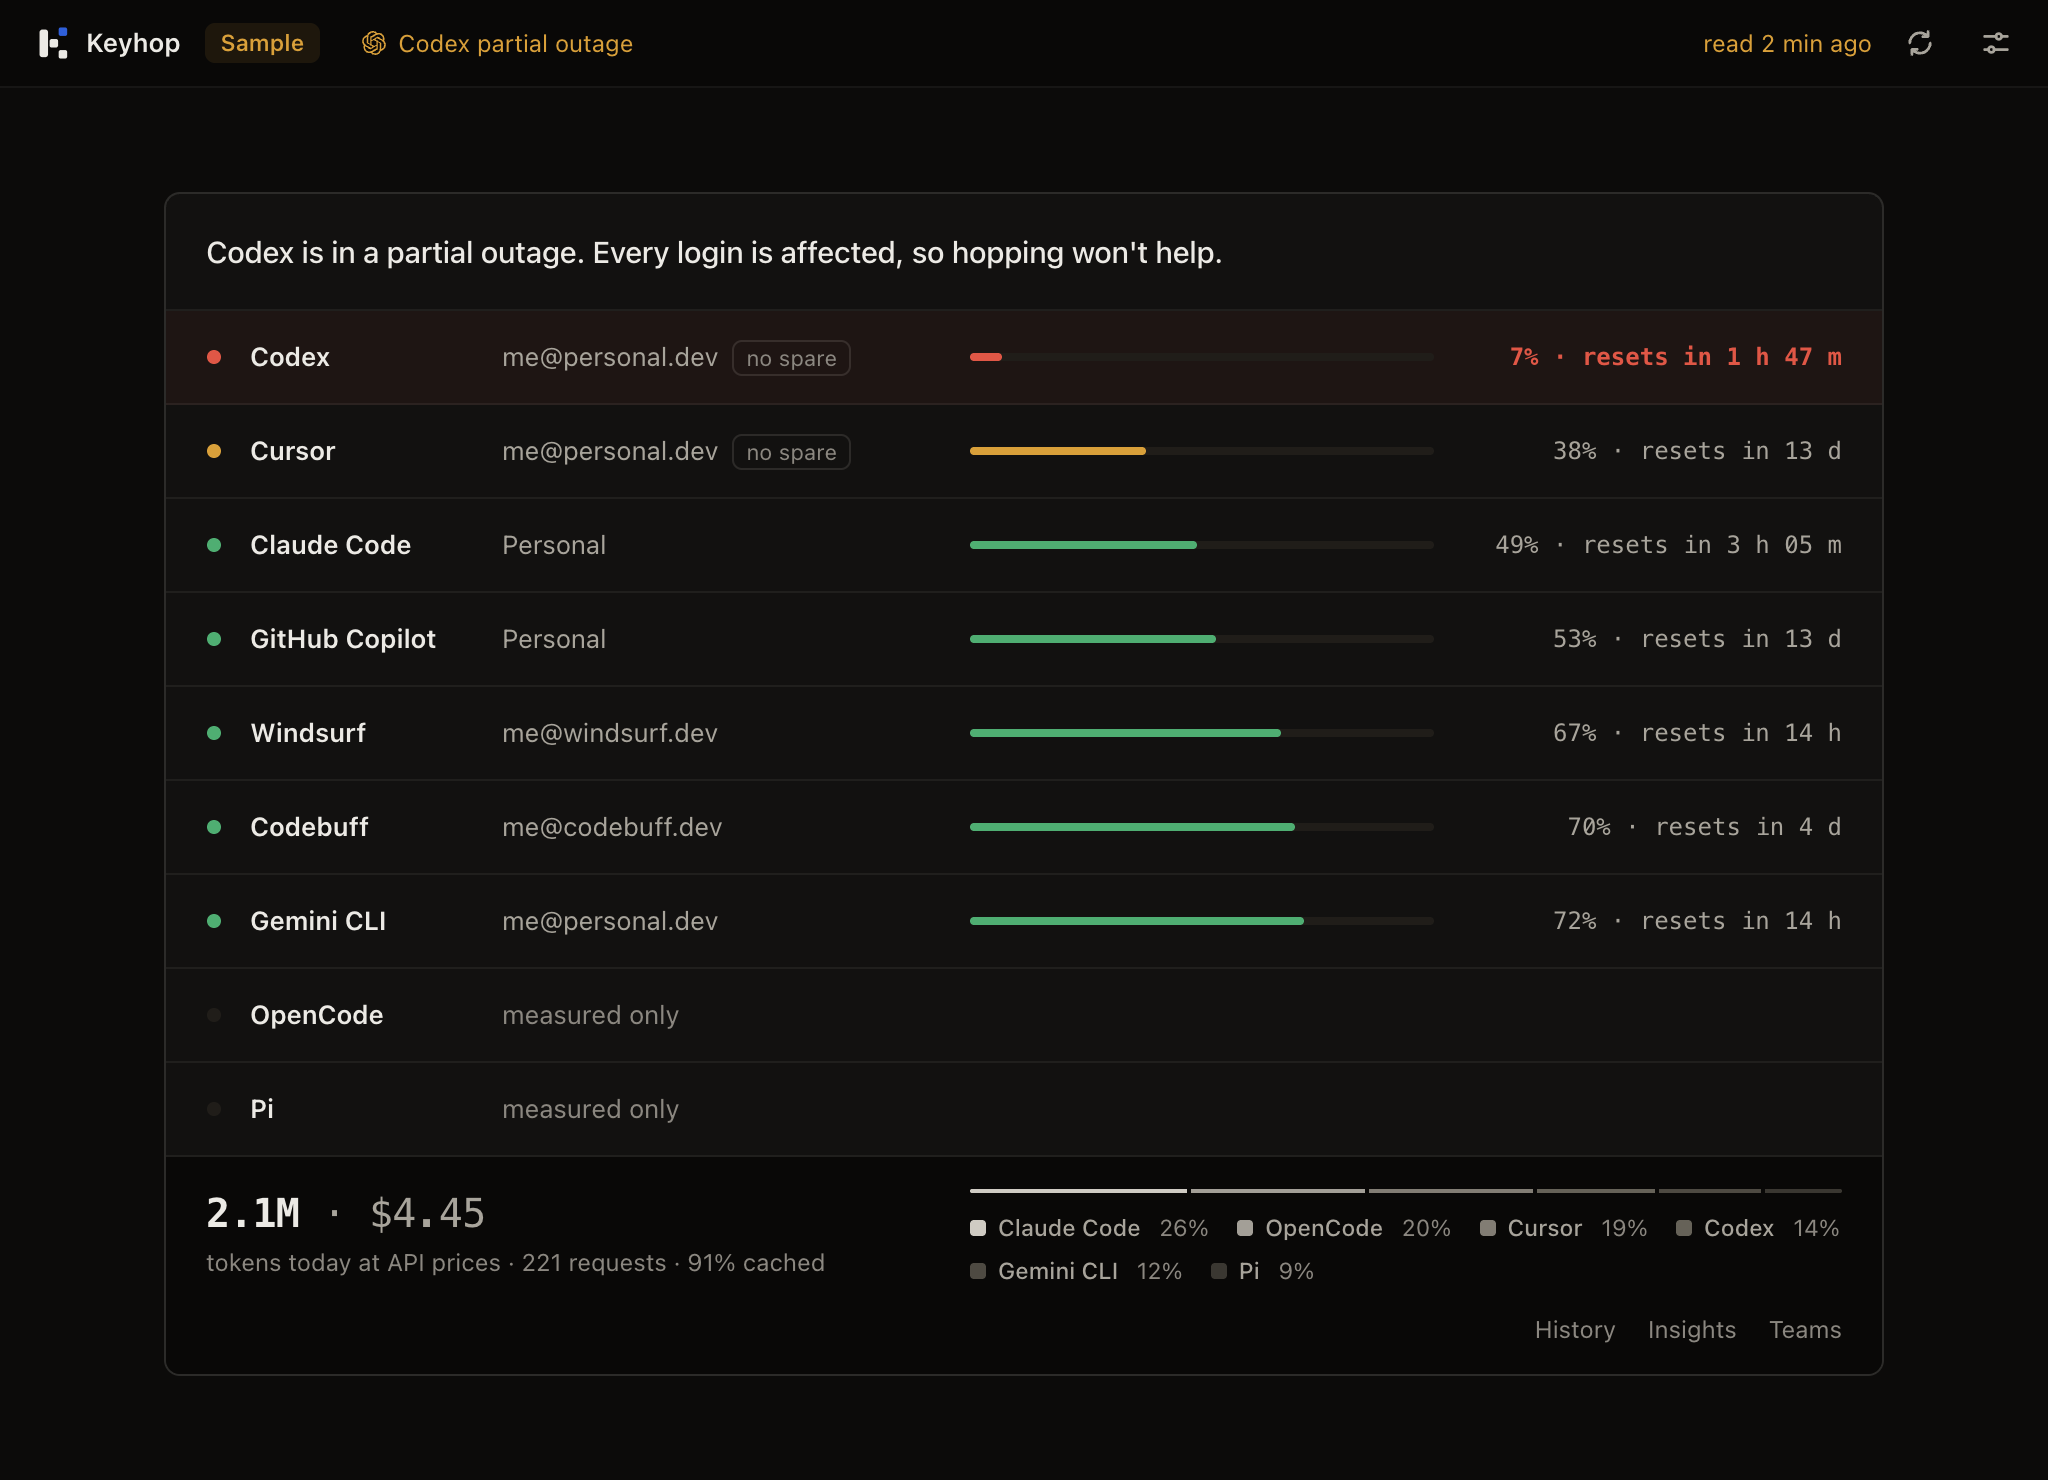
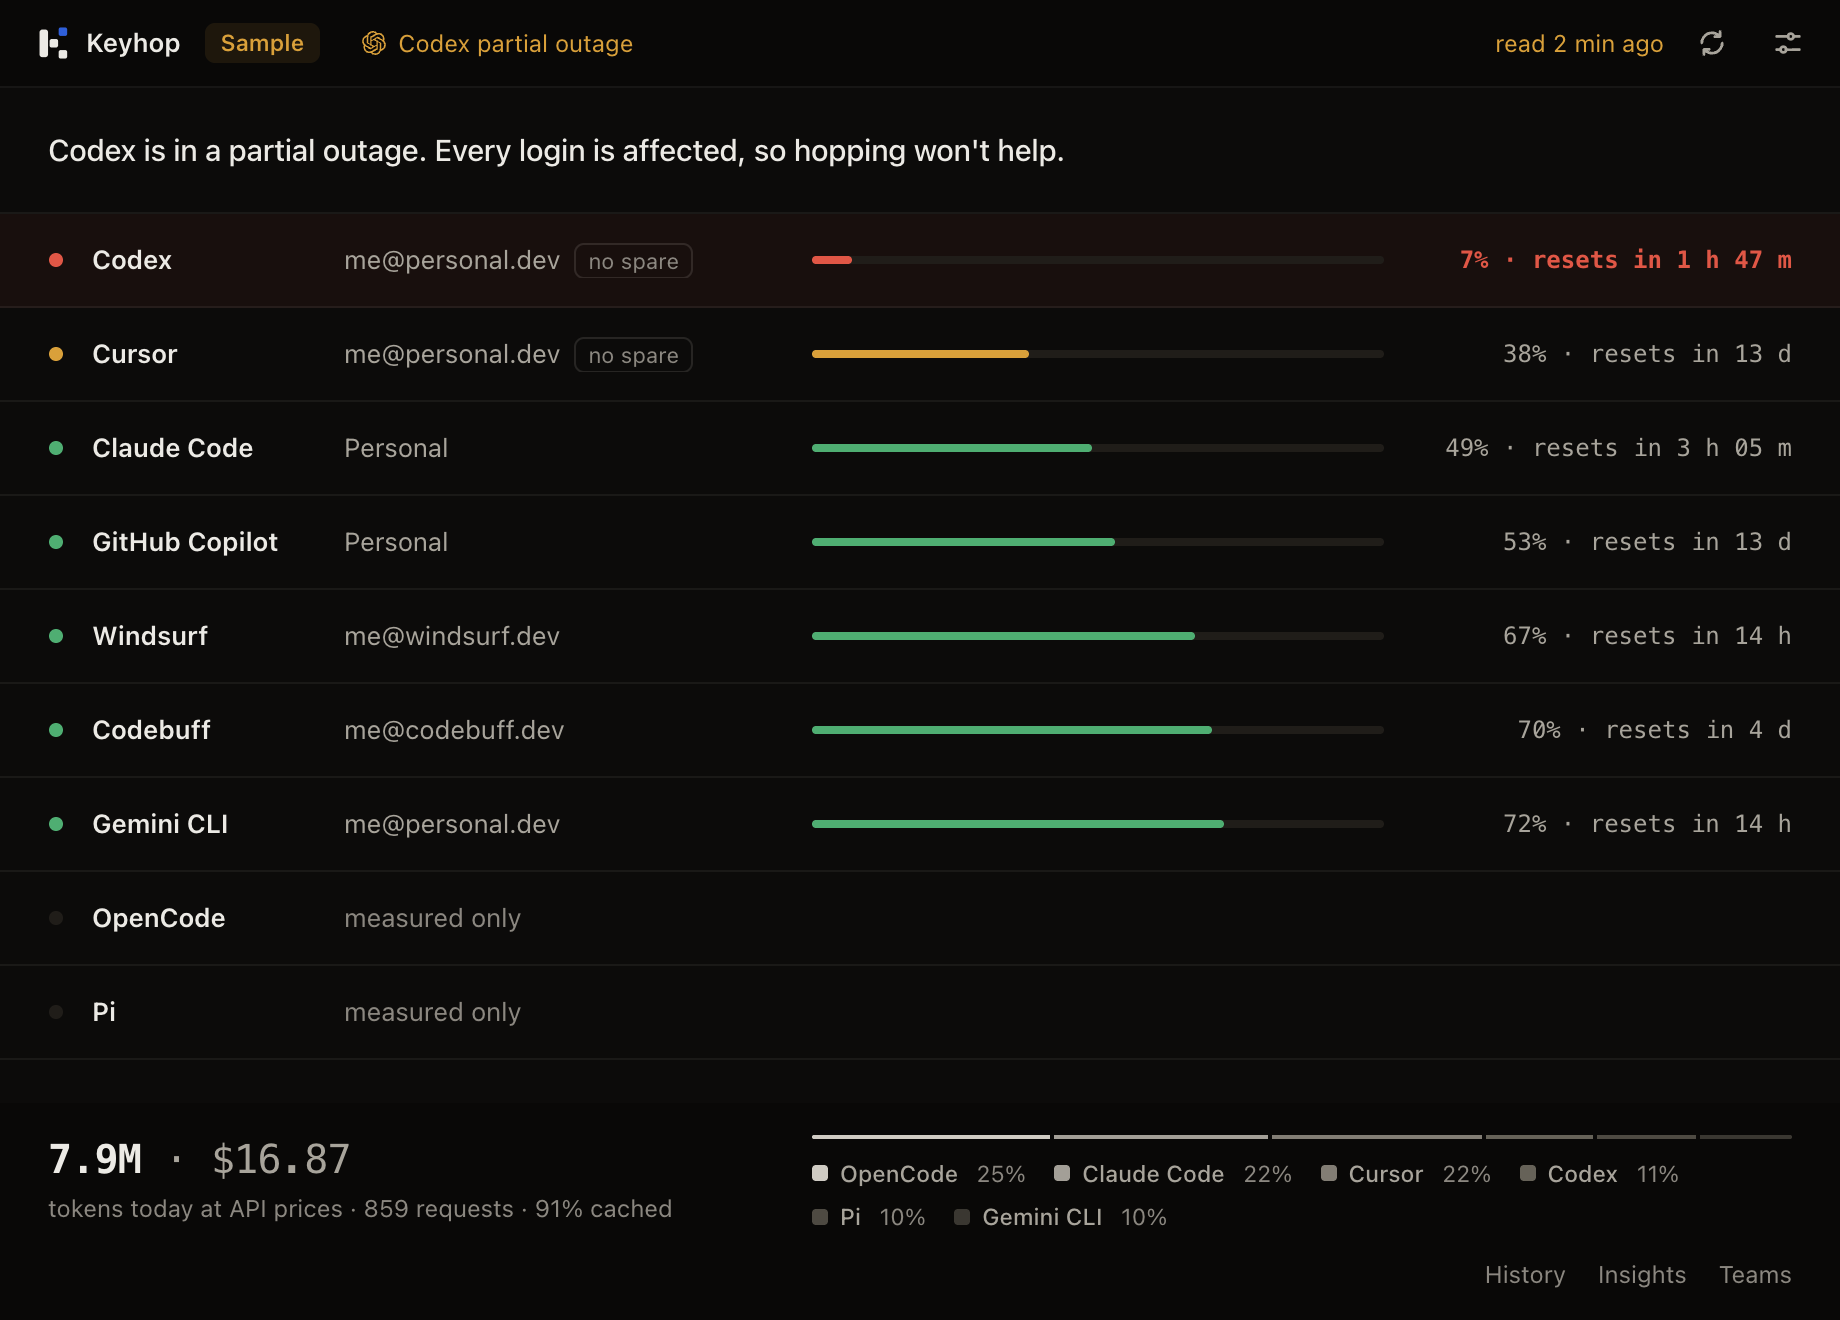
Dissolve the core card into the window
The window shrank to hug the core screen, which left a bordered sheet
floating inside a frame of its own, a window in a window. The sheet is
gone: the verdict, the ranked logins and today's figure now sit straight
on the window surface, parted by hairlines, with today as the footer on
the chrome tone pinned to the bottom edge. Rows and hover washes run
edge to edge, and the offline notice loses the card-width it was cut to.

The README hero is reshot from the dissolved window at 920x660.

diff --git a/Sources/Keyhop/Dashboard/Page/DashboardStyles.swift b/Sources/Keyhop/Dashboard/Page/DashboardStyles.swift
@@ -110,16 +110,15 @@ button, a, input, select, summary { touch-action: manipulation; -webkit-tap-high
 .page { max-width: 1320px; margin: 0 auto; display: grid; gap: 14px; }
 
 /* MARK: The core screen
-   The comp verbatim: verdict, ranked login rows, today. One sheet on the ground. */
-.main:has(.core) { display: grid; align-content: safe center; align-items: start; justify-items: center; padding: 24px 16px; }
-.core {
-  width: min(860px, 100%); background: var(--g1);
-  border: 1px solid var(--line-strong); border-radius: 8px;
-  overflow: hidden;
-}
+   The window is the sheet: verdict, ranked login rows, today, straight on the surface and
+   parted by hairlines. No card inside the window. */
+.main:has(.core) { display: flex; flex-direction: column; padding: 0; }
+.main:has(.core) > .page { width: 100%; max-width: none; margin: 0; padding: 16px 24px 0; }
+.core { flex: 1; display: flex; flex-direction: column; }
+.core .logins, .core .setup-list { flex: 1; }
 .verdict {
   display: flex; align-items: center; gap: 16px;
-  padding: 18px 20px; border-bottom: 1px solid var(--line);
+  padding: 20px 24px; border-bottom: 1px solid var(--line);
 }
 .verdict p { margin: 0 auto 0 0; font-size: 15px; font-weight: 500; letter-spacing: -.01em; min-width: 0; view-transition-name: verdict; }
 .verdict p .detail { color: var(--fg2); font-weight: 400; }
@@ -130,7 +129,7 @@ button, a, input, select, summary { touch-action: manipulation; -webkit-tap-high
   grid-template-areas: "dot tool login runway left";
   grid-template-columns: 8px 112px 220px minmax(0, 1fr) 190px;
   gap: 14px; align-items: center;
-  height: 47px; padding: 0 20px;
+  height: 47px; padding: 0 24px;
   border-bottom: 1px solid var(--line);
   transition: background .15s ease-out;
 }
@@ -167,7 +166,7 @@ button, a, input, select, summary { touch-action: manipulation; -webkit-tap-high
   display: grid;
   grid-template-columns: 8px 112px 220px minmax(0, 1fr) 190px;
   gap: 6px 14px; align-items: end;
-  padding: 16px 20px 14px;
+  padding: 16px 24px 14px;
   background: var(--chrome);
 }
 .core .figure { grid-column: 1 / 4; align-self: start; min-width: 0; }
@@ -190,7 +189,6 @@ button, a, input, select, summary { touch-action: manipulation; -webkit-tap-high
 .core .links { grid-column: 1 / 6; display: flex; gap: 16px; justify-content: flex-end; margin-top: 6px; }
 .core .links a { color: var(--fg3); font-size: 12px; text-decoration: none; transition: color .15s ease-out; }
 .core .links a:hover { color: var(--fg); }
-.setup-list { background: var(--g1); }
 .setup-mark { flex: none; width: 24px; height: 24px; display: grid; place-items: center; color: var(--fg2); }
 .setup-mark .mark { width: 15px; height: 15px; }
 

diff --git a/Sources/Keyhop/Dashboard/Page/DashboardScriptChrome.swift b/Sources/Keyhop/Dashboard/Page/DashboardScriptChrome.swift
@@ -154,7 +154,7 @@ extension DashboardPage {
     const page = { home: homePage, usage: usagePage, limits: limitsPage, coach: coachPage, plans: plansPage, budgets: budgetsPage, leaderboard: leaderboardPage, season: seasonPage, teams: teamsPage, profile: profilePage, settings: settingsPage }[ui.section](tools);
     renderViewbar(page.toolbar || "");
     const offline = ui.offline ? `<div class="notice">${icon("alert")}<div><p>${esc(ui.offline)}</p></div></div>` : "";
-    $("#main").innerHTML = ui.section === "home" ? `${offline ? `<div class="page" style="width:min(860px,100%)">${offline}</div>` : ""}${page.body}` : `<div class="page">${offline}${page.body}</div>`;
+    $("#main").innerHTML = ui.section === "home" ? `${offline ? `<div class="page">${offline}</div>` : ""}${page.body}` : `<div class="page">${offline}${page.body}</div>`;
     $("#main").setAttribute("aria-busy", (ui.loadingUsage || data.state.refreshing) ? "true" : "false");
     applyPending();
     renderActivity();
